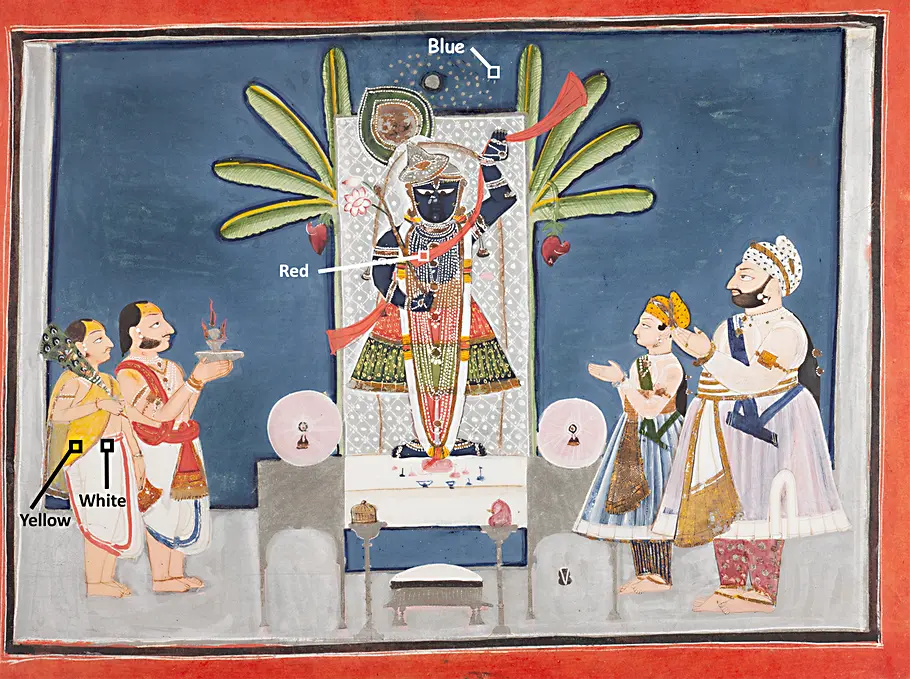
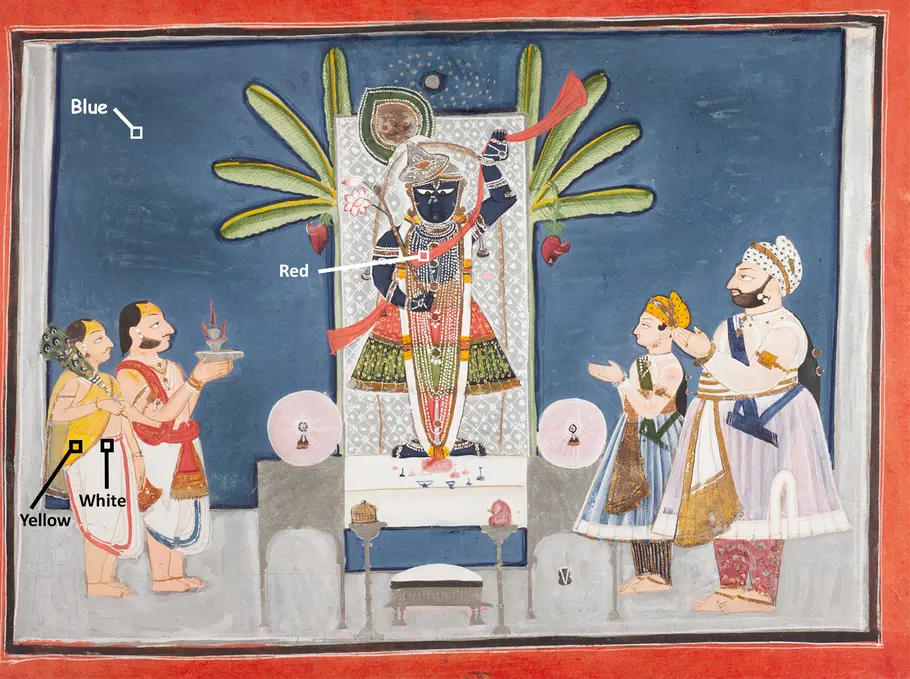
Update museum images to final versions

diff --git a/src/pages/Museum/MuseumChokhaPigmentsSpectra.vue b/src/pages/Museum/MuseumChokhaPigmentsSpectra.vue
@@ -21,6 +21,10 @@
                 <span style="font-weight: 600">Select pigment</span> dropdown
                 menu to view a spectrum for different pigments of each color.
               </InstructionStep>
+              <InstructionStep>
+                Adjust the WAVELENGTH STRETCH as needed to view the complete
+                spectrum.
+              </InstructionStep>
             </template>
           </InstructionRow>
           <InstructionRow rowType="Notebook">
@@ -77,8 +81,8 @@
 
 <script setup lang="ts">
 import { useAllMetadata, useCustomMetadata } from '@/utils/metadataUtils';
-import chokhaChallenge from '@/assets/spectrum_data/Museum_Conservation/chokha_painting_labels_910.webp';
-import chokhaBig from '@/assets/spectrum_data/Museum_Conservation/chokha_painting_labels_big.webp';
+import chokhaChallenge from '@/assets/spectrum_data/Museum_Conservation/chokha_visible_r1b1y1w1_910.webp';
+import chokhaBig from '@/assets/spectrum_data/Museum_Conservation/chokha_visible_r1b1y1w1_big.webp';
 import { useSpecLabHead } from '@/utils/locationUtils';
 import mystery from '@/assets/spectrum_data/mystery@2x.png';
 

diff --git a/src/pages/Museum/MuseumChokhaPigmentsUVL.vue b/src/pages/Museum/MuseumChokhaPigmentsUVL.vue
@@ -84,8 +84,8 @@
 import { useSpecLabHead } from '@/utils/locationUtils';
 
 import { computed, ref } from 'vue';
-import chokhaChallenge from '@/assets/spectrum_data/Museum_Conservation/chokha_painting_labels_910.webp';
-import chokhaUVL from '@/assets/spectrum_data/Museum_Conservation/chokha_uvl.webp';
+import chokhaChallenge from '@/assets/spectrum_data/Museum_Conservation/chokha_visible_r1b1y1w1_910.webp';
+import chokhaUVL from '@/assets/spectrum_data/Museum_Conservation/chokha_uvl_r1b1y1w1_910.webp';
 
 useSpecLabHead('Chokha Pigments Part 3: UVL', 'Museum');
 
